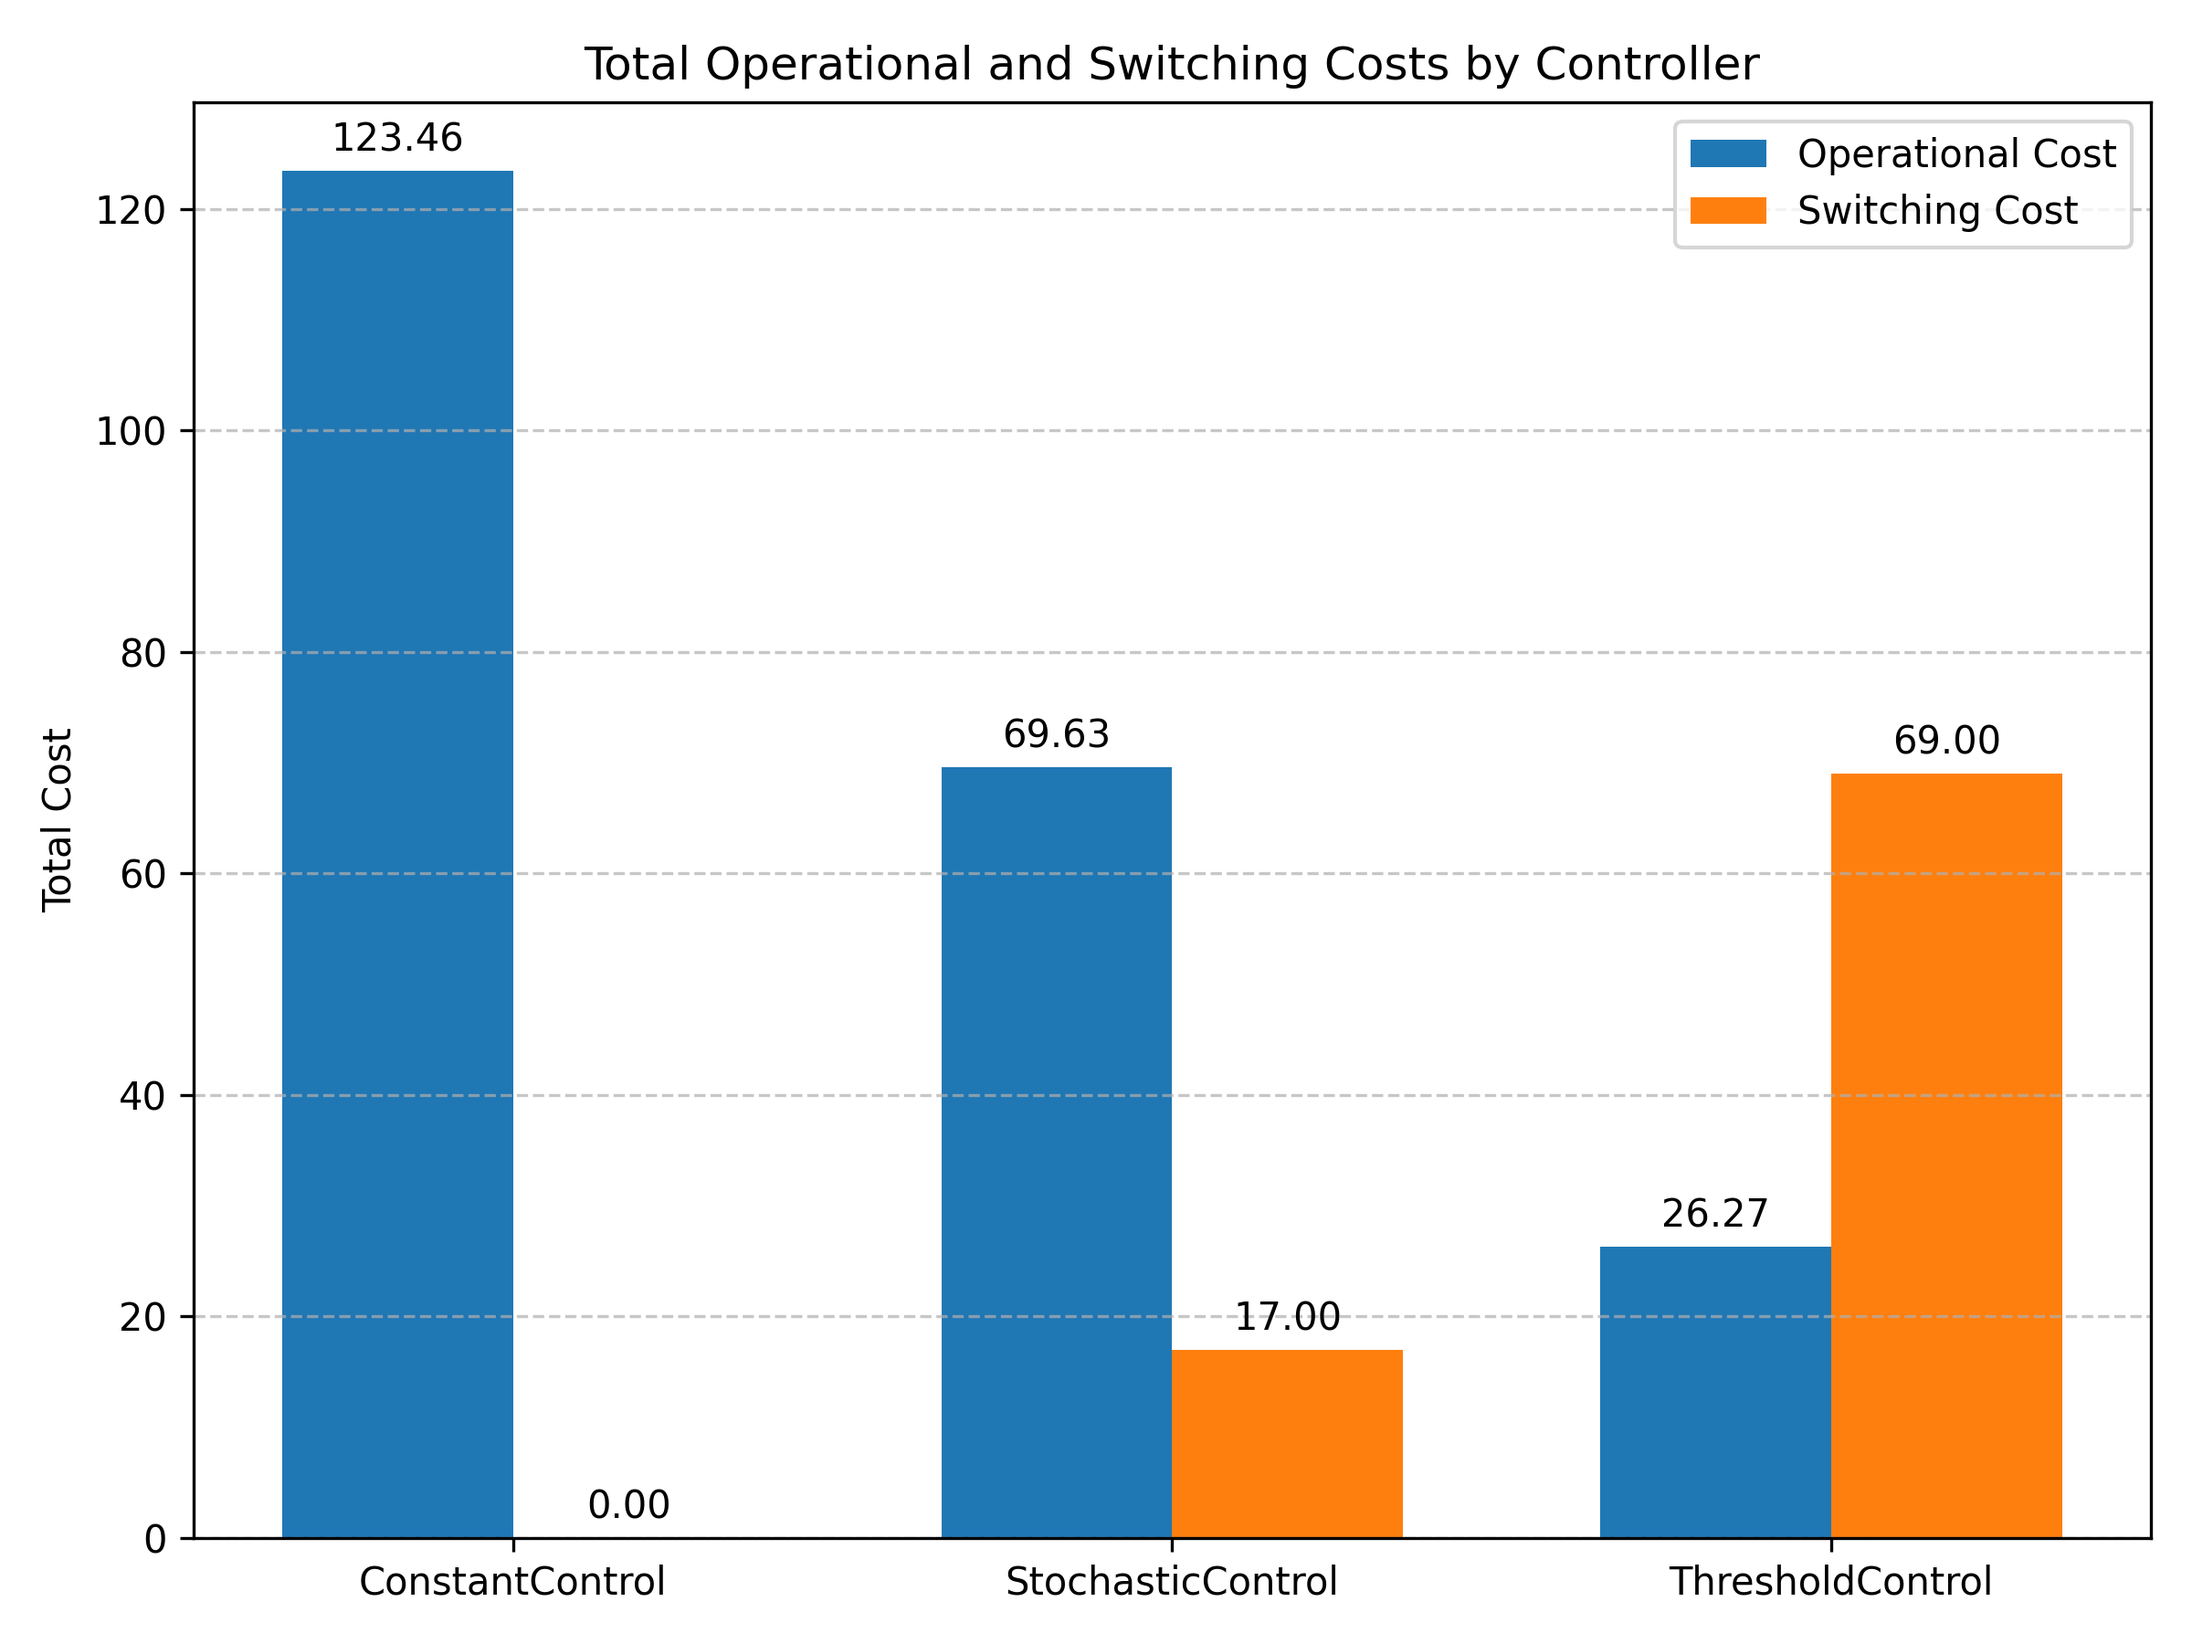
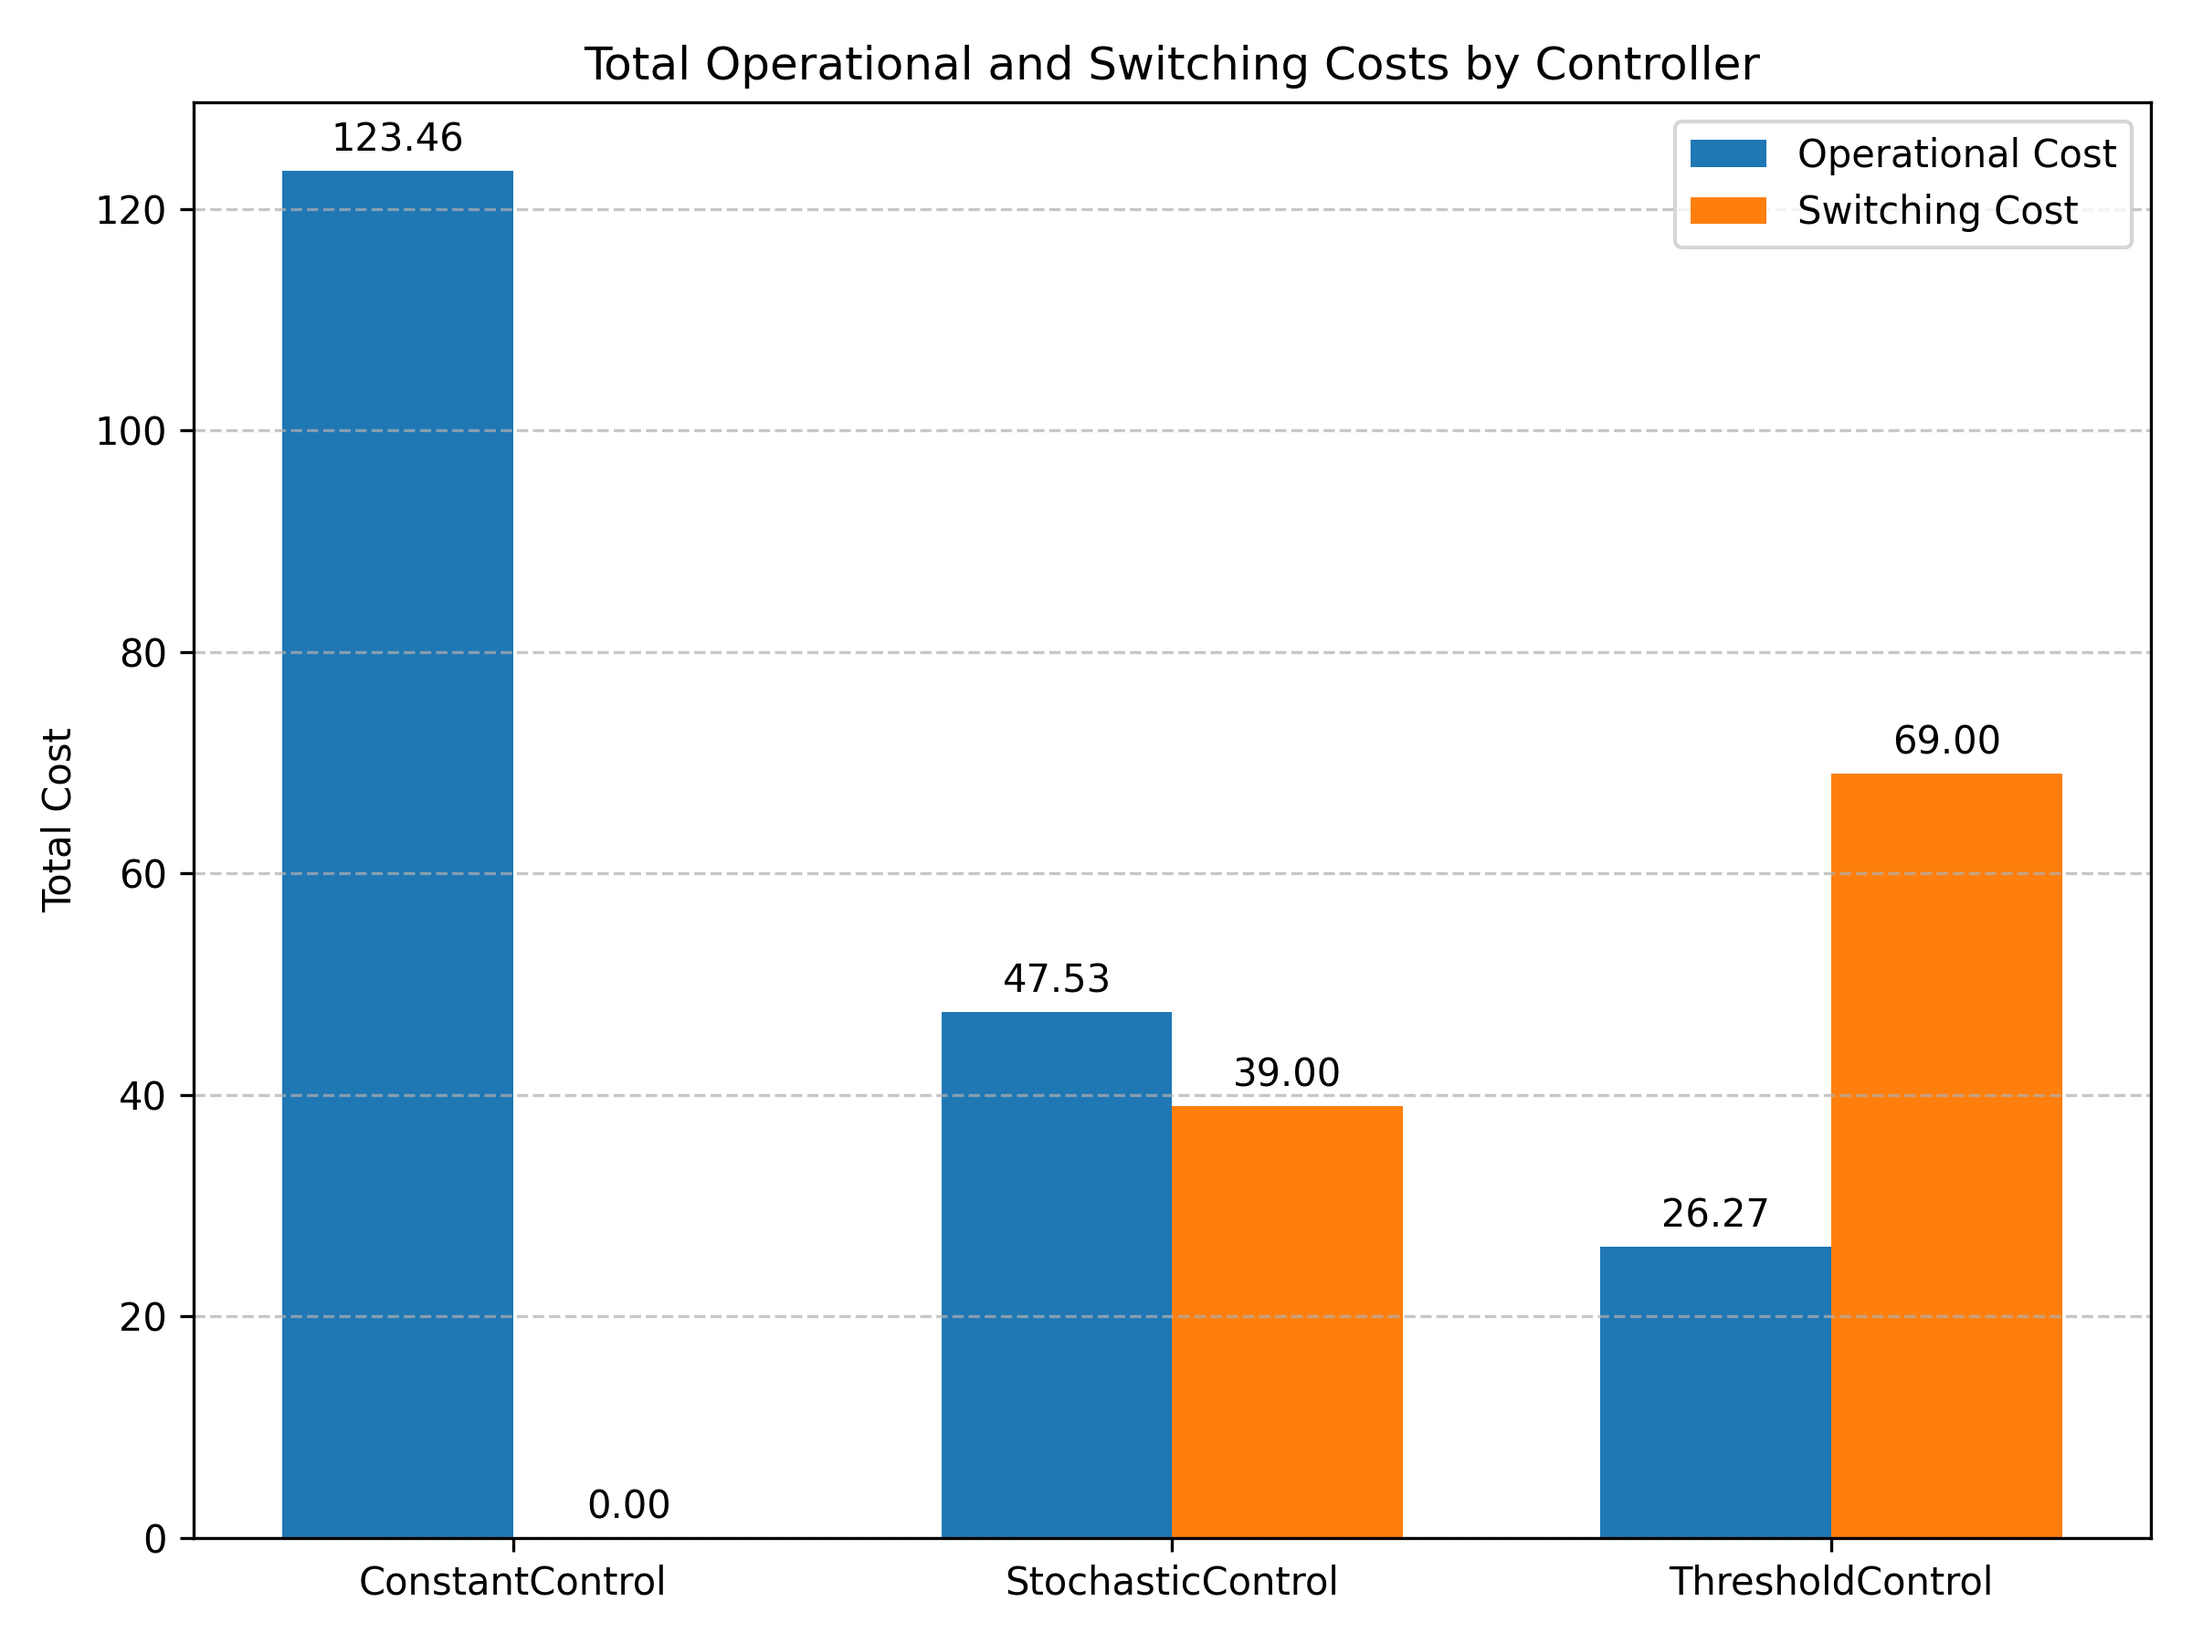
fixes

Changed region(s): [[0.5312, 0.6222, 0.6562, 0.84], [0.4062, 0.4356, 0.5625, 0.6222]]

diff --git a/opt_power/python/src/solvers/sdp_baseline.py b/opt_power/python/src/solvers/sdp_baseline.py
@@ -1,4 +1,4 @@
-# src/solvers/dp_multiscale.py
+# src/solvers/sdp_baseline.py
 import numpy as np
 from numba import njit
 
@@ -32,8 +32,6 @@ def _solve_bellman_recursion(T: int, p_vals: np.ndarray, n_vals: np.ndarray,
                 if n_val <= 0:
                     continue
               
-                # MATLAB Bug 1: Calculating Operational Cost OUTSIDE the action loop, 
-                # using the INHERITED state (n_val) instead of the action state (n_next).
                 C_o = ((p_val / p_star - n_val) ** 2) / n_val
                 best_cost = np.inf
                 best_action_idx = 0  

diff --git a/opt_power/python/main.py b/opt_power/python/main.py
@@ -5,7 +5,7 @@ from config import SimConfig
 from src.data_processing import load_and_interpolate_sov_data, calibrate_markov_chain, downsample_block_mean
 from src.simulator import Simulator
 from src.plants.fc_only_plant import FuelCellOnlyPlant
-from src.solvers.dp_multiscale import BaselineSDPSolver
+from opt_power.python.src.solvers.sdp_baseline import BaselineSDPSolver
 from src.controllers.constant import ConstantControl
 from src.controllers.threshold import ThresholdControl
 from src.controllers.stochastic import StochasticControl

diff --git a/opt_power/python/config.py b/opt_power/python/config.py
@@ -19,7 +19,7 @@ class SimConfig:
     enable_plotting: bool = True #
     
     # --- Markov Chain (DTMC) Calibration Parameters ---
-    n_states: int = 16         # Number of discrete load levels (M=16 in data execution block)
+    n_states: int = 8         # Number of discrete load levels (M=16 in data execution block)
     alpha: float = 0.5         # Dirichlet smoothing parameter for sparse transition count rows
     
     # --- Control Action Space ---
